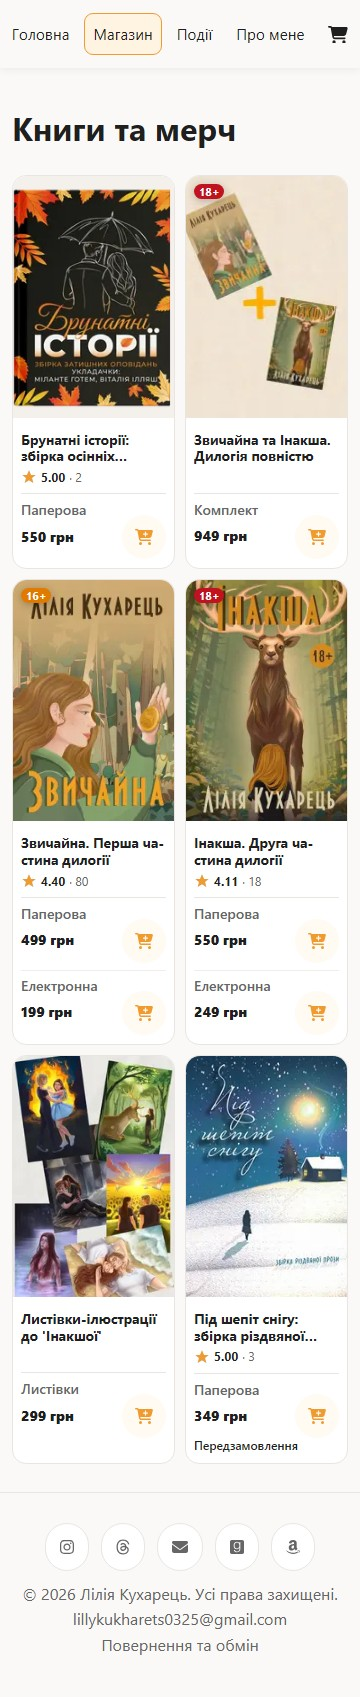
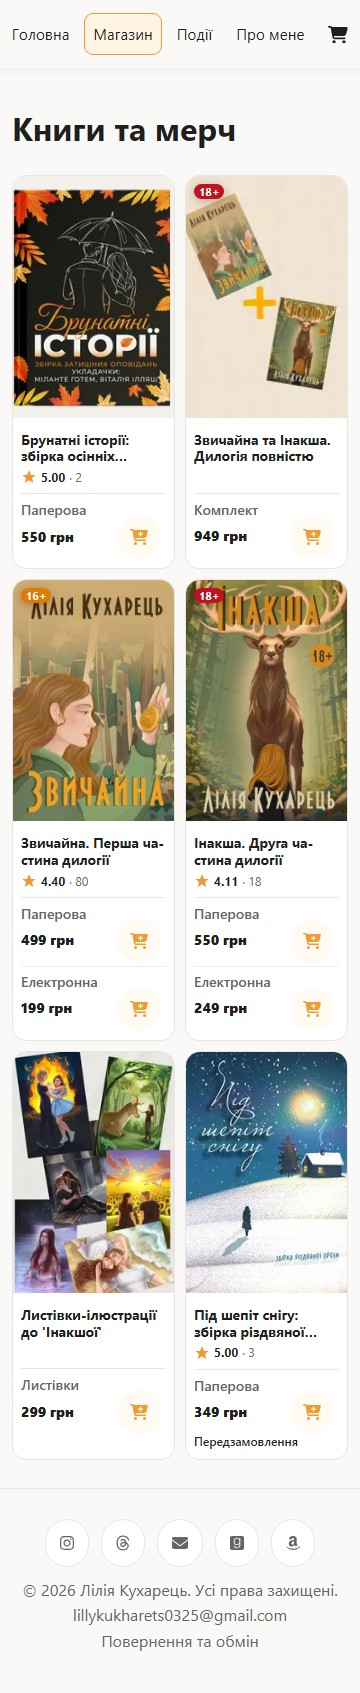
style: inset mobile cart buttons and tighten separators (ZVY-73) [skip netlify]

diff --git a/src/components/molecules/BookCard.module.css b/src/components/molecules/BookCard.module.css
@@ -190,10 +190,10 @@
   .formatRow {
     grid-template-columns: minmax(0, 1fr) 44px;
     gap: 0 5px;
-    padding: 1px 0;
+    padding: 1px 5px 1px 0;
   }
   .formatRow + .formatRow {
-    margin-top: 6px;
+    margin-top: 2px;
     padding-top: 7px;
   }
   .formatInfo,

diff --git a/docs/storefront-catalog-sizing/REPORT.md b/docs/storefront-catalog-sizing/REPORT.md
@@ -6,17 +6,19 @@ Verified on 2026-10-07 (Europe/Kyiv). [ZVY-73](https://linear.app/zvychajna/issu
 
 Within the existing `max-width: 520px` breakpoint, format labels remain above their bold prices, with each price centered beside a circular quick-add button. Format and price text is 14 CSS px (previously 11.2px); buttons retain their 44 × 44 CSS px tap target (previously 26 × 26). Long format labels and amounts can wrap instead of clipping. Preorder disclosure remains below the price/action row.
 
-After reviewing the initial After design, the owner requested tighter spacing between each format and price, slightly more separation between editions, less unused height for single-option cards, prominent bold prices, and a less dominant button background. This explicit refinement preserves the stacked format/price arrangement rather than restoring the original inline row. The label occupies the price column and uses spare space beside the button; price padding protects wrapped text. Option-to-option margin/padding increases from 3/5px to 6/7px. The pale button background mixes 45% of the original accent surface with the white card surface; its circle and tap target remain 44px.
+After reviewing the initial After design, the owner requested tighter spacing between each format and price, slightly more separation between editions, less unused height for single-option cards, prominent bold prices, and a less dominant button background. This explicit refinement preserves the stacked format/price arrangement rather than restoring the original inline row. The label occupies the price column and uses spare space beside the button; price padding protects wrapped text. The pale button background mixes 45% of the original accent surface with the white card surface; its circle and tap target remain 44px.
+
+The owner then requested moving the button inward by 4–6px and removing approximately 4px between the first button and the next separator. Each mobile purchase row now reserves 5px at its right edge, moving the button inward without shifting the price's left edge or using a transform that could overlap text. The margin before subsequent separators decreases from 6px to 2px; padding below the separator remains 7px. These two adjustments remain within the existing mobile breakpoint.
 
 The two-column phone grid, covers, title arrangement, two-line title clamp, ratings, separator appearance, price/label colors, focus treatment, and edition-selection behavior are preserved. All application changes are in `src/components/molecules/BookCard.module.css`. The existing non-semantic format wrappers use `display: contents` on mobile so their children participate in the row grid. No component markup, cart rules, API contracts or backend code changed.
 
-Created files: `tests/e2e/catalog-mobile-sizing.spec.ts`, this report, full-page screenshots and measurement JSONs under `before`, `initial-after` and `after`, original-to-refined comparisons `comparison-360.jpg`/`comparison-390.jpg`, initial-After-to-refined comparisons `refinement-360.jpg`/`refinement-390.jpg`, and the cropped purchase-area comparison `refinement-details-390.jpg`. Initial comparisons are retained under `initial-after`. Comparisons use actual screenshots without rescaling.
+Created files: `tests/e2e/catalog-mobile-sizing.spec.ts`, this report, full-page screenshots and measurement JSONs under `before`, `initial-after`, `previous-refinement` and `after`, original-to-current comparisons `comparison-360.jpg`/`comparison-390.jpg`, initial-After-to-current comparisons `refinement-360.jpg`/`refinement-390.jpg`, previous-refinement-to-current comparisons `adjustment-360.jpg`/`adjustment-390.jpg`, and purchase-area comparisons `refinement-details-390.jpg`/`adjustment-details-390.jpg`. Initial comparisons are retained under `initial-after`. Comparisons use actual screenshots without rescaling.
 
 ## Environment and evidence provenance
 
 Branch `codex/zvy-73-mobile-catalog-sizing`, based on updated frontend `main` at `34a608fa2dc8db4761ce13290bd09016621844fe`. Next.js 16.3.4 production build, Node.js 24.11.1, Playwright 1.63.0 and bundled Chromium. Local application: `http://127.0.0.1:3100`; deterministic API double: `http://127.0.0.1:4100`. Phone contexts emulate touch. Tested route: `/books`.
 
-Matching captures use all six products from the approved historical [catalog snapshot](../storefront-baseline/catalog-snapshot.json), supplied through a browser route double after the normal provider refresh. Image URLs are normalized to repository assets. The local build uses the standard deterministic test API; browser requests to non-local hosts are blocked. All three phases use the same snapshot, viewport, fonts and image readiness checks, empty cart and scroll position. Before captures use the original base stylesheet. The initial After at `9a71d97879acaa7cddd6ac6e963f6bda4ec0d510` is preserved under `initial-after`; current `after` captures use the owner-requested refinement. This is controlled local evidence, not a fresh production inspection.
+Matching captures use all six products from the approved historical [catalog snapshot](../storefront-baseline/catalog-snapshot.json), supplied through a browser route double after the normal provider refresh. Image URLs are normalized to repository assets. The local build uses the standard deterministic test API; browser requests to non-local hosts are blocked. All phases use the same snapshot, viewport, fonts and image readiness checks, empty cart and scroll position. Before captures use the original base stylesheet. The initial After at `9a71d97879acaa7cddd6ac6e963f6bda4ec0d510` is preserved under `initial-after`; the first refinement at `66736743005fefdaa997d38514782813e509e42b` is preserved under `previous-refinement`; current `after` captures include the latest button inset and separator spacing. This is controlled local evidence, not a fresh production inspection.
 
 | Viewport | Before | After | Comparison |
 | --- | --- | --- | --- |
@@ -26,15 +28,15 @@ Matching captures use all six products from the approved historical [catalog sna
 
 ## Browsing tradeoff
 
-In this six-product snapshot, the refined one-edition format block measures approximately 66.8px, compared with 75.8px in the initial After and 36px in the original Before. A two-edition block measures approximately 138.6px, compared with 151.6px and 72px respectively. The preorder block measures approximately 82.4px, compared with 96.4px and 43px. Thus the refinement removes 9px from a one-option block, 13px from a two-option block and 14px from the preorder block. Grid widths and title size, line height and clamp match both earlier versions.
+In this six-product snapshot, the current one-edition format block measures approximately 66.8px, compared with 75.8px in the initial After and 36px in the original Before. A two-edition block measures approximately 134.6px, compared with 138.6px in the previous refinement, 151.6px in the initial After and 72px in the original Before. The preorder block measures approximately 82.4px, compared with 96.4px and 43px. The current design removes 9px from a one-option block, 17px from a two-option block and 14px from the preorder block compared with the initial After. Grid widths and title size, line height and clamp match the earlier versions.
 
-| Width | Original Before | Initial After | Refined After | Change from initial After |
-| --- | ---: | ---: | ---: | ---: |
-| 360px | 1561px | 1733px | 1697px | −36px |
-| 390px | 1628px | 1801px | 1765px | −36px |
-| 1440px | 1553px | 1553px | 1553px | 0px |
+| Width | Original Before | Initial After | Previous refinement | Current After | Change from initial After |
+| --- | ---: | ---: | ---: | ---: | ---: |
+| 360px | 1561px | 1733px | 1697px | 1693px | −40px |
+| 390px | 1628px | 1801px | 1765px | 1761px | −40px |
+| 1440px | 1553px | 1553px | 1553px | 1553px | 0px |
 
-Initial After versus refined: [390px full page](refinement-390.jpg), [360px full page](refinement-360.jpg), [390px purchase details](refinement-details-390.jpg). At 390px the refined page is 36px shorter than the initial After and remains 137px (8.4%) taller than the original Before. At 360px it remains 136px (8.7%) taller. The first product row is 9px shorter and the two-edition row is 13px shorter than the initial After; their covers and title/rating blocks are unchanged.
+Initial After versus current: [390px full page](refinement-390.jpg), [360px full page](refinement-360.jpg), [390px purchase details](refinement-details-390.jpg). Latest adjustment versus previous refinement: [390px full page](adjustment-390.jpg), [360px full page](adjustment-360.jpg), [390px purchase details](adjustment-details-390.jpg). At 390px the current page is 40px shorter than the initial After and remains 133px (8.2%) taller than the original Before. At 360px it remains 132px (8.5%) taller. The latest adjustment removes another 4px from the two-edition product row; covers and title/rating blocks are unchanged.
 
 Larger text and targets require more scrolling to browse the same products. The initial phone viewport exposes less of the next product row. These measurements describe this snapshot only; no conversion improvement or real-phone comfort improvement is assumed.
 
@@ -61,7 +63,7 @@ To repeat after captures, set `ZVY73_EVIDENCE_PHASE=after` and run `npm run test
 
 | Acceptance criterion | Result |
 | --- | --- |
-| Two columns, current titles, stacked format/price, minimum sizing, owner-requested spacing and background refinement | Implemented; 320/360/390/520px layout tests and matching captures pass; 390px catalog is 36px shorter than initial After |
+| Two columns, current titles, stacked format/price, minimum sizing, owner-requested spacing and background refinement | Implemented; 320/360/390/520px layout tests and matching captures pass; 390px catalog is 40px shorter than initial After, with buttons inset 5px and 4px less space before subsequent separators |
 | Full format/amount/currency, intended touch/keyboard edition, non-overlapping targets | Implemented and tested with ordinary, long-label, discounted, preorder, digital, unavailable and in-cart states |
 | Existing mobile breakpoint only; desktop and intermediate/reflow checks | Implemented; 521/640/768/1440px checks pass and desktop screenshot is identical |
 | Baseline comparison, increased-scroll tradeoff, final owner review | Evidence and tradeoff recorded; implemented result presented for owner review, acceptance remains pending |
